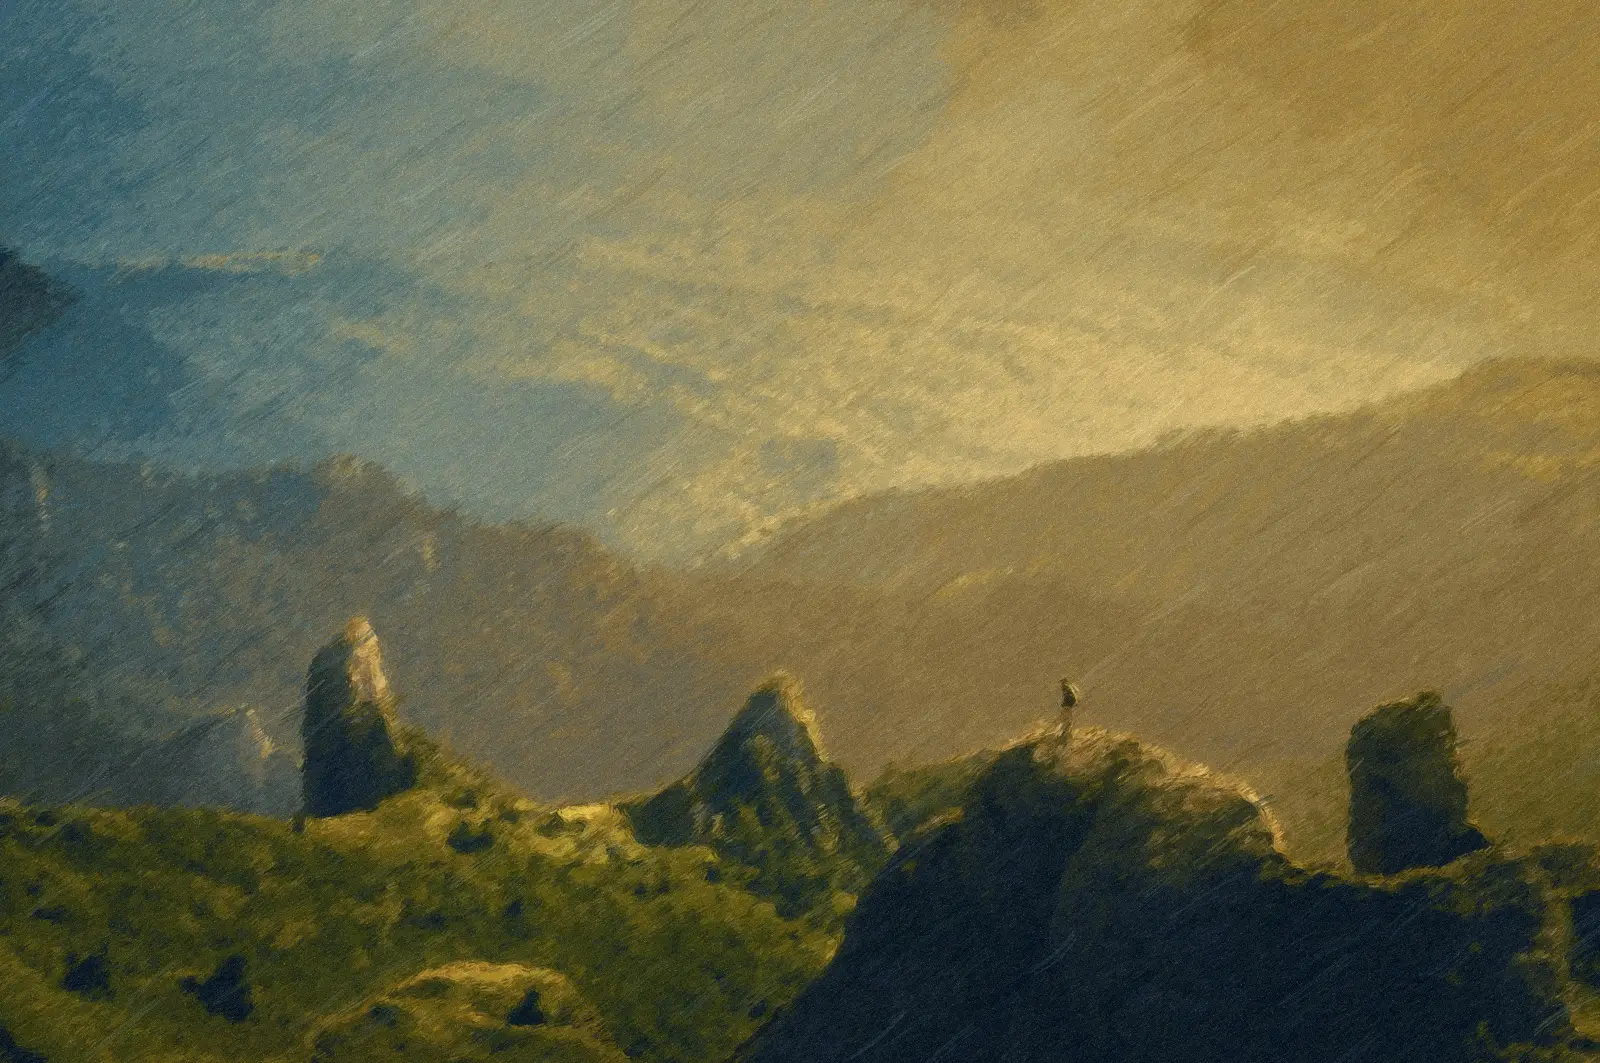
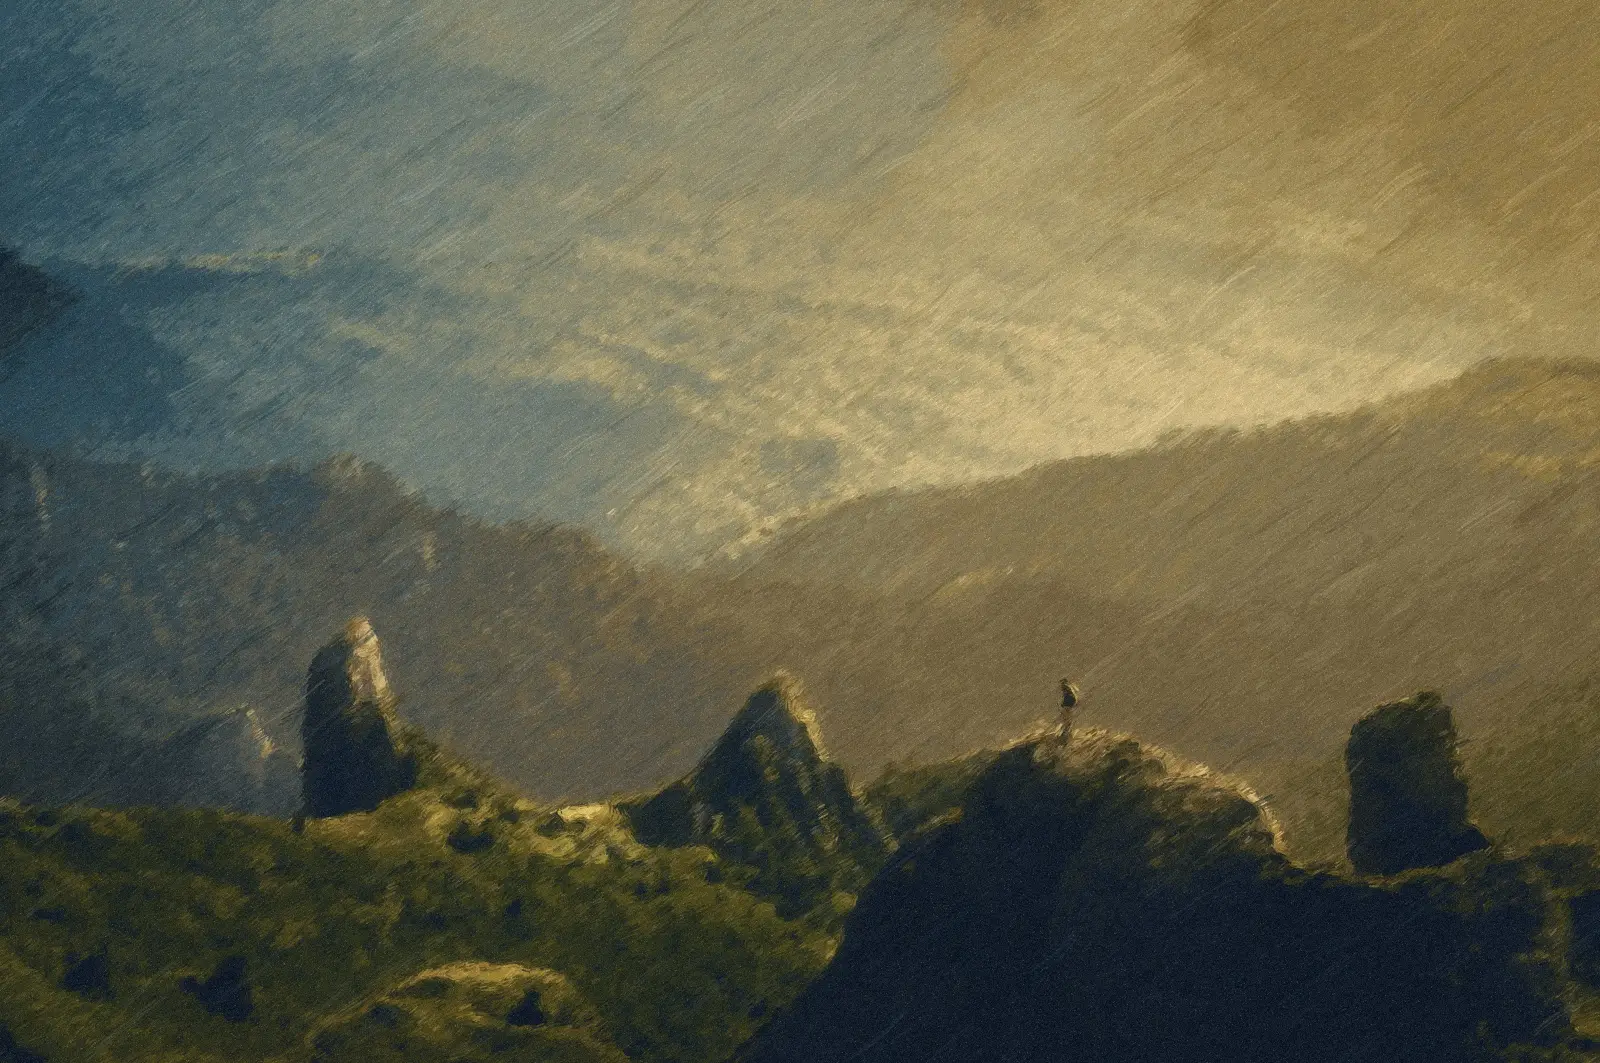
Shared colour grade for every painted picture (navy-ink shadows, paper highlights, capped saturation)
Claude-Session: https://claude.ai/code/session_01GpoCFyZaZW1KcKes324zKf

diff --git a/tools/paint.js b/tools/paint.js
@@ -13,11 +13,12 @@
    Options go in the address:  ?src=images/photo.webp&w=1600&seed=7&colors=20&scale=1
    scale sizes the strokes: 1 suits a 1600-px picture shown full screen; a picture shown small (the homepage tiles)
    needs smaller strokes, or it turns into a few blobs. detail below 1 adds finer strokes where the photo is soft
-   (a hazy, low-contrast photo needs about 0.5); hatch below 1 lays fewer loose scribbles over the top.  */
+   (a hazy, low-contrast photo needs about 0.5); hatch below 1 lays fewer loose scribbles over the top.
+   grade (default 1, 0 = off) is the site-wide colour grade, so every picture belongs to the same site (see step 4).  */
 (async function () {
   const q = new URLSearchParams(location.search);
   const SRC = "../" + (q.get("src") || "images/hero-trail.webp");
-  const OUT_W = +(q.get("w") || 1600), K = +(q.get("scale") || 1), DETAIL = +(q.get("detail") || 1), HATCHING = +(q.get("hatch") || 1), SEED = +(q.get("seed") || 7), COLORS = +(q.get("colors") || 20);
+  const OUT_W = +(q.get("w") || 1600), K = +(q.get("scale") || 1), DETAIL = +(q.get("detail") || 1), HATCHING = +(q.get("hatch") || 1), GRADE = +(q.get("grade") ?? 1), SEED = +(q.get("seed") || 7), COLORS = +(q.get("colors") || 20);
   const HATCH = -0.62;                         // the shared stroke direction, in radians (rising to the right)
   const status = document.getElementById("status");
 
@@ -156,11 +157,24 @@
     }
   }
 
-  /* ---------- 4. paper grain ---------- */
+  /* ---------- 4. the site's colour grade, then paper grain ----------
+     Every picture keeps its own colours, but all of them share:
+     - shadows that sink into one deep navy ink (near the site's ink, #0b0b0b, with a little blue),
+     - highlights that lean to the site's paper colour (#f3f3ee) instead of pure white,
+     - a ceiling on how vivid a colour may be, so no picture shouts over the others. */
+  const INK = [20, 27, 42], PAPER = [243, 243, 238], MAX_CHROMA = 125;
   const d = ctx.getImageData(0, 0, W, H), p = d.data;
   for (let i = 0; i < p.length; i += 4) {
-    const g = (rnd() - 0.5) * 20 + (rnd() < 0.015 ? 24 : 0);
-    p[i] = clamp(p[i] + g, 0, 255); p[i + 1] = clamp(p[i + 1] + g, 0, 255); p[i + 2] = clamp(p[i + 2] + g, 0, 255);
+    let r = p[i], g = p[i + 1], b = p[i + 2];
+    if (GRADE) {
+      const l = (r * 0.299 + g * 0.587 + b * 0.114) / 255;
+      const sh = (1 - l) ** 2.2 * 0.65 * GRADE, hi = l ** 3 * 0.45 * GRADE;
+      r += (INK[0] - r) * sh + (PAPER[0] - r) * hi; g += (INK[1] - g) * sh + (PAPER[1] - g) * hi; b += (INK[2] - b) * sh + (PAPER[2] - b) * hi;
+      const mx = Math.max(r, g, b), mn = Math.min(r, g, b), c = mx - mn;
+      if (c > MAX_CHROMA) { const y = r * 0.299 + g * 0.587 + b * 0.114, k = 1 - (1 - MAX_CHROMA / c) * GRADE; r = y + (r - y) * k; g = y + (g - y) * k; b = y + (b - y) * k; }
+    }
+    const n = (rnd() - 0.5) * 20 + (rnd() < 0.015 ? 24 : 0);
+    p[i] = clamp(r + n, 0, 255); p[i + 1] = clamp(g + n, 0, 255); p[i + 2] = clamp(b + n, 0, 255);
   }
   ctx.putImageData(d, 0, 0);
   status.textContent = `Done: ${W}×${H}, ${palette.length} colours, seed ${SEED}. Right-click the picture to save it.`;

diff --git a/index.html b/index.html
@@ -16,12 +16,12 @@
   <link rel="icon" href="favicon-32.png?v=3" type="image/png" sizes="32x32">
   <link rel="icon" href="favicon.svg?v=3" type="image/svg+xml">
   <link rel="apple-touch-icon" href="apple-touch-icon.png?v=3">
-  <link rel="stylesheet" href="assets/css/style.css?v=20261113i">
+  <link rel="stylesheet" href="assets/css/style.css?v=20261113j">
 </head>
 <body class="home">
   <main>
     <section class="stage" aria-label="Introduction">
-      <div class="hero-bg"><img src="images/hero-painted.webp" alt="" fetchpriority="high" decoding="async"></div>
+      <div class="hero-bg"><img src="images/hero-painted-2.webp" alt="" fetchpriority="high" decoding="async"></div>
       <div class="lines" aria-hidden="true"><i class="v v1"></i><i class="v v2"></i><i class="h"></i></div>
       <nav class="tiles" aria-label="Sections"></nav>
       <div class="titles">
@@ -39,9 +39,9 @@
   <script src="assets/vendor/gsap.min.js?v=3.12.5"></script>
   <script src="assets/vendor/ScrollTrigger.min.js?v=3.12.5"></script>
   <script src="assets/vendor/lenis.min.js?v=1.1.13"></script>
-  <script src="assets/js/content.js?v=20261113i"></script>
-  <script src="assets/js/main.js?v=20261113i"></script>
-  <script src="assets/js/home.js?v=20261113i"></script>
-  <script src="assets/js/ascii-field.js?v=20261113i"></script>
+  <script src="assets/js/content.js?v=20261113j"></script>
+  <script src="assets/js/main.js?v=20261113j"></script>
+  <script src="assets/js/home.js?v=20261113j"></script>
+  <script src="assets/js/ascii-field.js?v=20261113j"></script>
 </body>
 </html>

diff --git a/about.html b/about.html
@@ -15,7 +15,7 @@
   <link rel="icon" href="favicon-32.png?v=3" type="image/png" sizes="32x32">
   <link rel="icon" href="favicon.svg?v=3" type="image/svg+xml">
   <link rel="apple-touch-icon" href="apple-touch-icon.png?v=3">
-  <link rel="stylesheet" href="assets/css/style.css?v=20261113i">
+  <link rel="stylesheet" href="assets/css/style.css?v=20261113j">
 </head>
 <body data-page="about">
   <div class="page-lines" aria-hidden="true"><i></i><i></i></div>
@@ -24,9 +24,9 @@
   <script src="assets/vendor/gsap.min.js?v=3.12.5"></script>
   <script src="assets/vendor/ScrollTrigger.min.js?v=3.12.5"></script>
   <script src="assets/vendor/lenis.min.js?v=1.1.13"></script>
-  <script src="assets/js/content.js?v=20261113i"></script>
-  <script src="assets/js/main.js?v=20261113i"></script>
-  <script src="assets/js/pages.js?v=20261113i"></script>
-  <script src="assets/js/ascii-field.js?v=20261113i"></script>
+  <script src="assets/js/content.js?v=20261113j"></script>
+  <script src="assets/js/main.js?v=20261113j"></script>
+  <script src="assets/js/pages.js?v=20261113j"></script>
+  <script src="assets/js/ascii-field.js?v=20261113j"></script>
 </body>
 </html>

diff --git a/portfolio.html b/portfolio.html
@@ -15,7 +15,7 @@
   <link rel="icon" href="favicon-32.png?v=3" type="image/png" sizes="32x32">
   <link rel="icon" href="favicon.svg?v=3" type="image/svg+xml">
   <link rel="apple-touch-icon" href="apple-touch-icon.png?v=3">
-  <link rel="stylesheet" href="assets/css/style.css?v=20261113i">
+  <link rel="stylesheet" href="assets/css/style.css?v=20261113j">
 </head>
 <body data-page="portfolio">
   <div class="page-lines" aria-hidden="true"><i></i><i></i></div>
@@ -24,8 +24,8 @@
   <script src="assets/vendor/gsap.min.js?v=3.12.5"></script>
   <script src="assets/vendor/ScrollTrigger.min.js?v=3.12.5"></script>
   <script src="assets/vendor/lenis.min.js?v=1.1.13"></script>
-  <script src="assets/js/content.js?v=20261113i"></script>
-  <script src="assets/js/main.js?v=20261113i"></script>
-  <script src="assets/js/pages.js?v=20261113i"></script>
+  <script src="assets/js/content.js?v=20261113j"></script>
+  <script src="assets/js/main.js?v=20261113j"></script>
+  <script src="assets/js/pages.js?v=20261113j"></script>
 </body>
 </html>

diff --git a/article.html b/article.html
@@ -15,7 +15,7 @@
   <link rel="icon" href="favicon-32.png?v=3" type="image/png" sizes="32x32">
   <link rel="icon" href="favicon.svg?v=3" type="image/svg+xml">
   <link rel="apple-touch-icon" href="apple-touch-icon.png?v=3">
-  <link rel="stylesheet" href="assets/css/style.css?v=20261113i">
+  <link rel="stylesheet" href="assets/css/style.css?v=20261113j">
 </head>
 <body data-page="article">
   <div class="page-lines" aria-hidden="true"><i></i><i></i></div>
@@ -24,8 +24,8 @@
   <script src="assets/vendor/gsap.min.js?v=3.12.5"></script>
   <script src="assets/vendor/ScrollTrigger.min.js?v=3.12.5"></script>
   <script src="assets/vendor/lenis.min.js?v=1.1.13"></script>
-  <script src="assets/js/content.js?v=20261113i"></script>
-  <script src="assets/js/main.js?v=20261113i"></script>
-  <script src="assets/js/pages.js?v=20261113i"></script>
+  <script src="assets/js/content.js?v=20261113j"></script>
+  <script src="assets/js/main.js?v=20261113j"></script>
+  <script src="assets/js/pages.js?v=20261113j"></script>
 </body>
 </html>

diff --git a/project.html b/project.html
@@ -15,7 +15,7 @@
   <link rel="icon" href="favicon-32.png?v=3" type="image/png" sizes="32x32">
   <link rel="icon" href="favicon.svg?v=3" type="image/svg+xml">
   <link rel="apple-touch-icon" href="apple-touch-icon.png?v=3">
-  <link rel="stylesheet" href="assets/css/style.css?v=20261113i">
+  <link rel="stylesheet" href="assets/css/style.css?v=20261113j">
 </head>
 <body data-page="project">
   <div class="page-lines" aria-hidden="true"><i></i><i></i></div>
@@ -24,8 +24,8 @@
   <script src="assets/vendor/gsap.min.js?v=3.12.5"></script>
   <script src="assets/vendor/ScrollTrigger.min.js?v=3.12.5"></script>
   <script src="assets/vendor/lenis.min.js?v=1.1.13"></script>
-  <script src="assets/js/content.js?v=20261113i"></script>
-  <script src="assets/js/main.js?v=20261113i"></script>
-  <script src="assets/js/pages.js?v=20261113i"></script>
+  <script src="assets/js/content.js?v=20261113j"></script>
+  <script src="assets/js/main.js?v=20261113j"></script>
+  <script src="assets/js/pages.js?v=20261113j"></script>
 </body>
 </html>

diff --git a/writing.html b/writing.html
@@ -15,7 +15,7 @@
   <link rel="icon" href="favicon-32.png?v=3" type="image/png" sizes="32x32">
   <link rel="icon" href="favicon.svg?v=3" type="image/svg+xml">
   <link rel="apple-touch-icon" href="apple-touch-icon.png?v=3">
-  <link rel="stylesheet" href="assets/css/style.css?v=20261113i">
+  <link rel="stylesheet" href="assets/css/style.css?v=20261113j">
 </head>
 <body data-page="writing">
   <div class="page-lines" aria-hidden="true"><i></i><i></i></div>
@@ -24,8 +24,8 @@
   <script src="assets/vendor/gsap.min.js?v=3.12.5"></script>
   <script src="assets/vendor/ScrollTrigger.min.js?v=3.12.5"></script>
   <script src="assets/vendor/lenis.min.js?v=1.1.13"></script>
-  <script src="assets/js/content.js?v=20261113i"></script>
-  <script src="assets/js/main.js?v=20261113i"></script>
-  <script src="assets/js/pages.js?v=20261113i"></script>
+  <script src="assets/js/content.js?v=20261113j"></script>
+  <script src="assets/js/main.js?v=20261113j"></script>
+  <script src="assets/js/pages.js?v=20261113j"></script>
 </body>
 </html>

diff --git a/photos.html b/photos.html
@@ -15,7 +15,7 @@
   <link rel="icon" href="favicon-32.png?v=3" type="image/png" sizes="32x32">
   <link rel="icon" href="favicon.svg?v=3" type="image/svg+xml">
   <link rel="apple-touch-icon" href="apple-touch-icon.png?v=3">
-  <link rel="stylesheet" href="assets/css/style.css?v=20261113i">
+  <link rel="stylesheet" href="assets/css/style.css?v=20261113j">
 </head>
 <body data-page="photos">
   <div class="page-lines" aria-hidden="true"><i></i><i></i></div>
@@ -24,8 +24,8 @@
   <script src="assets/vendor/gsap.min.js?v=3.12.5"></script>
   <script src="assets/vendor/ScrollTrigger.min.js?v=3.12.5"></script>
   <script src="assets/vendor/lenis.min.js?v=1.1.13"></script>
-  <script src="assets/js/content.js?v=20261113i"></script>
-  <script src="assets/js/main.js?v=20261113i"></script>
-  <script src="assets/js/pages.js?v=20261113i"></script>
+  <script src="assets/js/content.js?v=20261113j"></script>
+  <script src="assets/js/main.js?v=20261113j"></script>
+  <script src="assets/js/pages.js?v=20261113j"></script>
 </body>
 </html>

diff --git a/music.html b/music.html
@@ -15,7 +15,7 @@
   <link rel="icon" href="favicon-32.png?v=3" type="image/png" sizes="32x32">
   <link rel="icon" href="favicon.svg?v=3" type="image/svg+xml">
   <link rel="apple-touch-icon" href="apple-touch-icon.png?v=3">
-  <link rel="stylesheet" href="assets/css/style.css?v=20261113i">
+  <link rel="stylesheet" href="assets/css/style.css?v=20261113j">
 </head>
 <body data-page="music">
   <div class="page-lines" aria-hidden="true"><i></i><i></i></div>
@@ -24,8 +24,8 @@
   <script src="assets/vendor/gsap.min.js?v=3.12.5"></script>
   <script src="assets/vendor/ScrollTrigger.min.js?v=3.12.5"></script>
   <script src="assets/vendor/lenis.min.js?v=1.1.13"></script>
-  <script src="assets/js/content.js?v=20261113i"></script>
-  <script src="assets/js/main.js?v=20261113i"></script>
-  <script src="assets/js/pages.js?v=20261113i"></script>
+  <script src="assets/js/content.js?v=20261113j"></script>
+  <script src="assets/js/main.js?v=20261113j"></script>
+  <script src="assets/js/pages.js?v=20261113j"></script>
 </body>
 </html>

diff --git a/assets/css/style.css b/assets/css/style.css
@@ -378,7 +378,7 @@ button { font: inherit; color: inherit; background: none; border: 0; padding: 0;
   position: relative; z-index: 2; overflow: hidden; isolation: isolate;
   display: flex; flex-direction: column; justify-content: flex-end;
   min-height: var(--foot-min);
-  background: #88835e; color: var(--paper); /* the average colour of the picture's top, so a taller footer continues it seamlessly */
+  background: #7e7b5f; color: var(--paper); /* the average colour of the picture's top, so a taller footer continues it seamlessly */
   padding: clamp(40px, 6vw, 80px) calc(var(--frame-w) + var(--pad)) clamp(20px, 2.6vw, 34px);
 }
 .home .site-foot { min-height: clamp(440px, 76vh, 680px); }

diff --git a/assets/js/content.js b/assets/js/content.js
@@ -20,7 +20,7 @@ window.SITE = {
   ],
 
   // Homepage background. Put a photo credit in heroCredit ({ label, url }) or leave it empty to hide it.
-  heroImage: "images/hero-painted.webp",   // drawn from images/hero-trail.webp by tools/paint.js (see README)
+  heroImage: "images/hero-painted-2.webp",   // drawn from images/hero-trail.webp by tools/paint.js (see README)
   heroAscii: true,   // drifting characters behind the name and on the six homepage tiles (false = off)
   heroCredit: null,
 

diff --git a/README.md b/README.md
@@ -47,4 +47,4 @@ The site is deployed on **Vercel** from `main`. There is no build command, and t
 
 **Security headers and caching (Vercel):** `vercel.json` sends the CSP (plus `frame-ancestors 'none'`, which a `<meta>` tag cannot set), HSTS, `X-Content-Type-Options`, `X-Frame-Options`, `Referrer-Policy`, `Permissions-Policy`, `Cross-Origin-Opener-Policy` and `Cross-Origin-Resource-Policy` (other sites cannot embed your images and files). It also sets caching: `assets/vendor/` and `assets/fonts/` are cached for a year, because those files don't change. `images/` is cached for a week, so **when you replace a picture, give the new file a new name** (and update the path in `content.js`). A file kept under the same name can show the old picture to returning visitors for up to a week. HTML, CSS and JS are not long-cached, so content edits show up immediately. `node serve.js` reads the same `vercel.json`, so the local preview matches the live headers. **If you change the CSP, change it in `vercel.json` and in the `<meta>` tag of every `.html` file.**
 
-The homepage tile images (`images/tiles/`) and the hero and footer pictures are set in `assets/js/content.js`. The hero, footer and tile pictures are pastel drawings made from photos by `tools/paint.js`: run `node serve.js`, open `http://localhost:4174/tools/paint.html?src=images/your-photo.webp`, save the result into `images/` and point `heroImage` (or `footer.art`, or a tile's `image`) at it (the colours are taken from the photo; `&seed=`, `&colors=` and `&w=` in the address change the result; `&scale=0.45` gives smaller strokes for the small tile pictures, and `&detail=0.3&hatch=0.25` keeps detail in a hazy photo like the footer's). Replace any of them with your own files in `images/`.
+The homepage tile images (`images/tiles/`) and the hero and footer pictures are set in `assets/js/content.js`. The hero, footer and tile pictures are pastel drawings made from photos by `tools/paint.js`: run `node serve.js`, open `http://localhost:4174/tools/paint.html?src=images/your-photo.webp`, save the result into `images/` and point `heroImage` (or `footer.art`, or a tile's `image`) at it (the colours are taken from the photo; `&seed=`, `&colors=` and `&w=` in the address change the result; `&scale=0.45` gives smaller strokes for the small tile pictures, and `&detail=0.3&hatch=0.25` keeps detail in a hazy photo like the footer's. Every drawing gets the same colour grade (shadows into one navy ink, highlights toward the page's paper colour, a ceiling on saturation), so pictures from different photos still look like one site; `&grade=0` turns it off). Replace any of them with your own files in `images/`.
